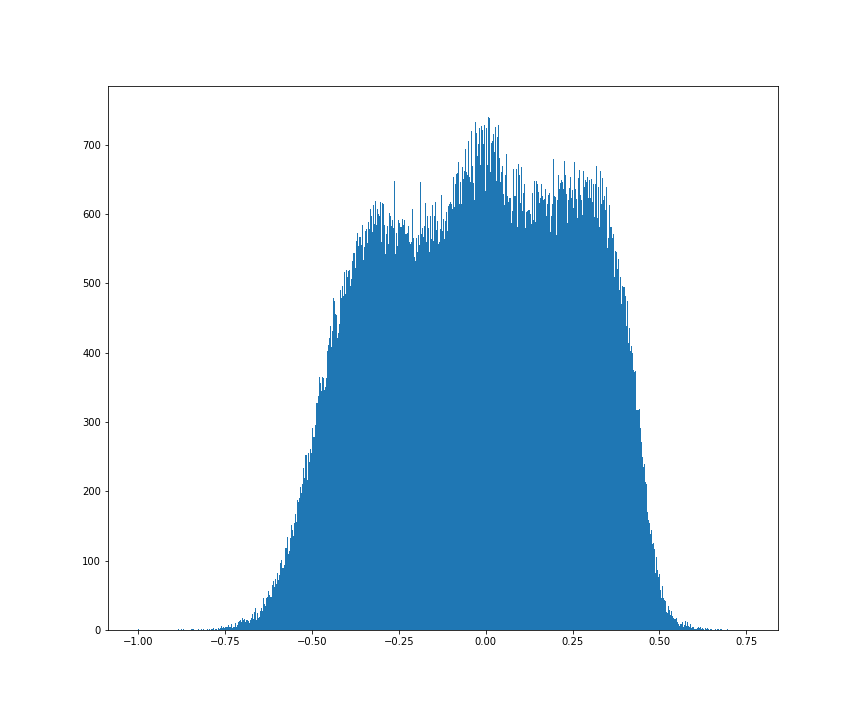
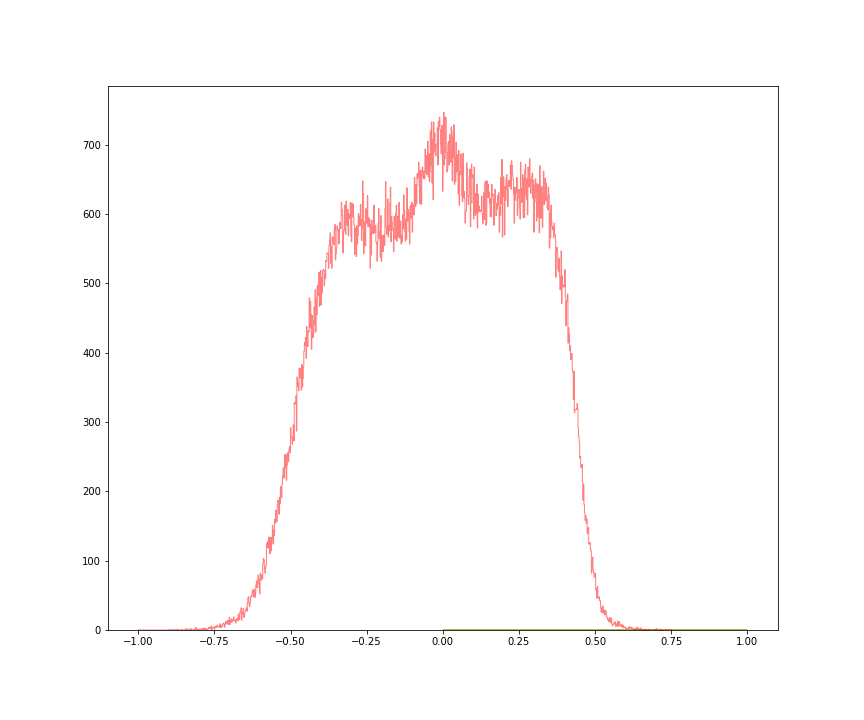
Analysis of raw weights: node strenght, link weights etc.

Changed region(s): [[0.2188, 0.1528, 0.8125, 0.9167], [0.8438, 0.8861, 0.875, 0.9167]]

diff --git a/experiments/MNIST/unified_analysis/tmp_metrics.py b/experiments/MNIST/unified_analysis/tmp_metrics.py
@@ -4,43 +4,68 @@ Created on Tue Mar 17 22:52:24 2020
 
 @author: Emanuele
 
-Use this code inside a folder that contains bias and weights in .npy format to extract all
- of them and plot histograms of
+Use this code to scan the results/fc (or cnn) folder to extract metrics from all the
+ raw weights, i.e., not averaged, and plot histograms of
 - link weights
 - node strength (input-output)
 
-TODO: - automatic scan of each folder we want to compute the metrics
-      - merge with plot_generator.py
-      - save results
+TODO: - merge with plot_generator.py
 """
 
+import glob
 import matplotlib.pyplot as plt
 import numpy as np
 
-from pathlib import Path
+from colour import Color
 
-total_weights = np.array([])
-total_bias = np.array([])
-for pth in Path.cwd().iterdir():
-    w = np.load(pth, allow_pickle=True)
-    total_weights = np.append(w[-2].flatten(), total_weights)
-    total_bias = np.append(w[-1].flatten(), total_bias)
-    
+topology = 'fc'  
+step = 0.2
+arange_ = np.arange(0.175, 1.0, step)
+num_colors = len(arange_)
+red = Color("green")
+colors = list(red.range_to(Color("red"),num_colors))
 # Link weights histogram
-plt.hist(np.concatenate((total_weights.flatten(), total_bias.flatten())), bins=1000, alpha=1.0, cumulative=False, normed=False)
-plt.savefig('./../../../images/fc/histogram_total_weights-accuracy(0.1-0.125).png')
+for acc, i in zip(arange_, range(num_colors)):
+    n_files = len(glob.glob("./results/{0}/{1:.3f}-{2:.1f}/*.npy".format(topology, acc, acc+0.025)))
+    total_weights, total_bias = np.array([]), np.array([])
+    for file_ in glob.glob("./results/{0}/{1:.3f}-{2:.1f}/*.npy".format(topology, acc, acc+0.025)):
+        w = np.load(file_, allow_pickle=True)
+        total_weights = np.append(w[-2].flatten(), total_weights)
+        total_bias = np.append(w[-1].flatten(), total_bias)        
+    plt.hist(np.concatenate((total_weights.flatten(), total_bias.flatten())),  color=str(colors[i]), histtype='step', bins=1000, alpha=.5, cumulative=False, normed=False)
+plt.savefig('./images/{}/histogram_total_weights-accuracy({}-{}-step-{}).png'.format(topology,0.1, 1.0, step))
 plt.show()
+plt.close()    
+    
 # Node strenght input layer
-s_input_layer = total_weights.reshape(1001, 32, 10).sum(axis=-1)
-plt.hist(s_input_layer.flatten(), bins=1000, alpha=1.0, cumulative=False, normed=False)
-plt.savefig('./../../../images/fc/histogram_total_node_strenght_input-layer-accuracy(0.1-0.125).png')
+for acc, i in zip(arange_, range(num_colors)):
+    n_files = len(glob.glob("./results/{0}/{1:.3f}-{2:.1f}/*.npy".format(topology, acc, acc+0.025)))
+    total_weights, total_bias = np.array([]), np.array([])
+    for file_ in glob.glob("./results/{0}/{1:.3f}-{2:.1f}/*.npy".format(topology, acc, acc+0.025)):
+        w = np.load(file_, allow_pickle=True)
+        total_weights = np.append(w[-2].flatten(), total_weights)
+        total_bias = np.append(w[-1].flatten(), total_bias)
+    s_input_layer = total_weights.reshape(n_files, 32, 10).sum(axis=-1)
+    plt.hist(s_input_layer.flatten(), bins=1000, alpha=.5, color=str(colors[i]), histtype='step', cumulative=False, normed=False)
+plt.savefig('./images/{}/histogram_total_node_strenght_input-layer-accuracy({}-{}-step-{}).png'.format(topology,0.1, 1.0, step))
 plt.show()
-# Node strenght output layer
-s_output_layer = total_weights.reshape(1001, 32, 10).sum(axis=1) + total_bias.reshape(1001, 10,)
-plt.hist(s_output_layer.flatten(), bins=1000, alpha=1.0, cumulative=False, normed=False)
-plt.savefig('./../../../images/fc/histogram_total_node_strenght_output-layer-accuracy(0.1-0.125).png')
-plt.show()
+plt.close()
 
+# Node strenght output layer
+for acc, i in zip(arange_, range(num_colors)):
+    n_files = len(glob.glob("./results/{0}/{1:.3f}-{2:.1f}/*.npy".format(topology, acc, acc+0.025)))
+    total_weights, total_bias = np.array([]), np.array([])
+    for file_ in glob.glob("./results/{0}/{1:.3f}-{2:.1f}/*.npy".format(topology, acc, acc+0.025)):
+        w = np.load(file_, allow_pickle=True)
+        total_weights = np.append(w[-2].flatten(), total_weights)
+        total_bias = np.append(w[-1].flatten(), total_bias)
+    s_output_layer = total_weights.reshape(n_files, 32, 10).sum(axis=1) + total_bias.reshape(n_files, 10,)
+    plt.hist(s_output_layer.flatten(), bins=1000, alpha=.5, color=str(colors[i]), histtype='step', cumulative=False, normed=False)
+plt.savefig('./images/{}/histogram_total_node_strenght_output-layer-accuracy({}-{}-step-{}).png'.format(topology,0.1, 1.0, step))
+plt.show()
+plt.close()
+
+"""
 # Multimodal fitting of wieghts
 from sklearn import mixture
 
@@ -58,3 +83,4 @@ params = [-0.34266558, 0.01597775**0.5, 580.,
           0.28088089, 0.01203812**0.5, 630.]
 plt.plot(x,trimodal(x,*params),color='red',lw=3,label='model')
 plt.legend()
+"""

diff --git a/experiments/MNIST/unified_analysis/plot_generator.py b/experiments/MNIST/unified_analysis/plot_generator.py
@@ -223,9 +223,9 @@ plt.show()
 # eventually cutoff the quantiles
 # Negative weights
 init_prefix, fin_prefix = 'fin', 'fin'
-min_percentile, max_percentile = 0.95, 1.
-save1 = './images/{}/{}-init-graph-negative-weights'.format(topology, topology)
-save2 = './images/{}/{}-final-graph-negative-weights'.format(topology, topology)
+min_percentile, max_percentile = 0.90, 1.
+save1 = './images/{}/{}-init-graph-negative-weights_quantiles({}-{})'.format(topology, topology, min_percentile, max_percentile)
+save2 = './images/{}/{}-final-graph-negative-weights_quantiles({}-{})'.format(topology, topology, min_percentile, max_percentile)
 #  init
 init = np.load('./results/{}_weights_npy/{}_weights_acc-0.1-0.125.npy'.format(topology, init_prefix), allow_pickle=True)
 qts1, qts2 = np.quantile(init.flatten(), min_percentile), np.quantile(init.flatten(), max_percentile)
@@ -252,8 +252,8 @@ db.draw_bipartite_graph(fin,
                         savefig=save2)
 
 # Positive weights
-save1 = './images/{}/{}-init-graph-positive-weights'.format(topology, topology)
-save2 = './images/{}/{}-final-graph-positive-weights'.format(topology, topology)
+save1 = './images/{}/{}-init-graph-positive-weights_quantiles({}-{})'.format(topology, topology, min_percentile, max_percentile)
+save2 = './images/{}/{}-final-graph-positive-weights_quantiles({}-{})'.format(topology, topology, min_percentile, max_percentile)
 #  init
 init = np.load('./results/{}_weights_npy/{}_weights_acc-0.1-0.125.npy'.format(topology, init_prefix), allow_pickle=True)
 qts1, qts2 = np.quantile(init.flatten(), min_percentile), np.quantile(init.flatten(), max_percentile)
